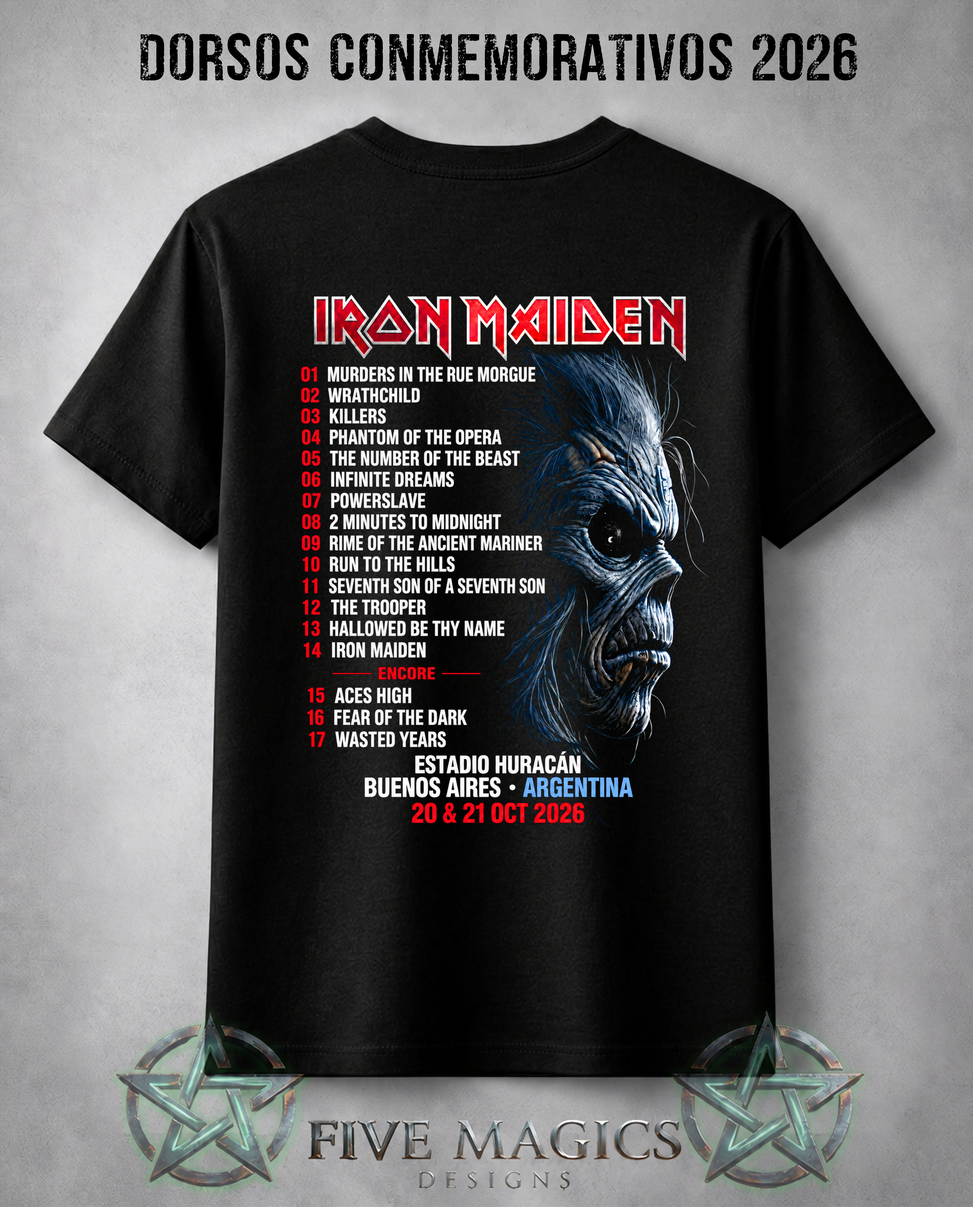
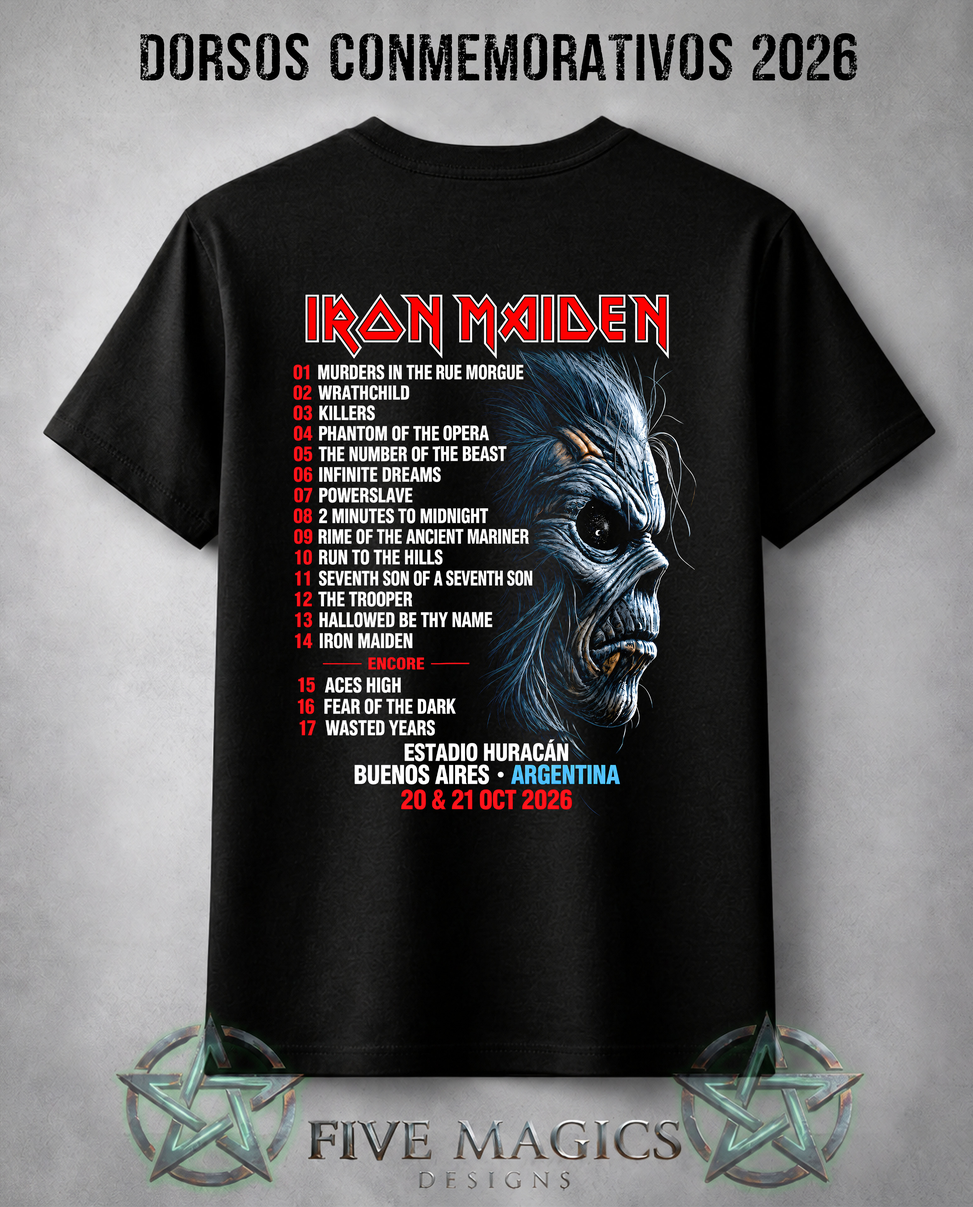
Add Iron Maiden commemorative set list backs

Changed region(s): [[0.2801, 0.2177, 0.7158, 0.6842]]

diff --git a/iron-maiden/index.html b/iron-maiden/index.html
@@ -155,7 +155,7 @@
             <div class="band-featured-collection-head">
                 <p>DORSOS CONMEMORATIVOS · ARGENTINA 2026</p>
                 <h2 id="bandCommemorativeBacksTitle">SET LIST · DOS NOCHES EN HURACÁN</h2>
-                <span>Cinco dorsos para recordar el repertorio de Buenos Aires. Elegí cualquiera con tu frente favorito de Iron Maiden.</span>
+                <span>Ocho dorsos para recordar el repertorio de Buenos Aires. Elegí cualquiera con tu frente favorito de Iron Maiden.</span>
             </div>
             <div class="band-featured-collection-grid">
                 <button type="button" class="band-featured-collection-card" onclick="openImageModal('/images/iron_maiden/dorsos_conmemorativos_set_list_argentina/dorso_afiche_set_list_argentina.jpg', 'AFICHE · SET LIST')" aria-label="Ver AFICHE · SET LIST">
@@ -173,6 +173,18 @@
                 <button type="button" class="band-featured-collection-card" onclick="openImageModal('/images/iron_maiden/dorsos_conmemorativos_set_list_argentina/dorso_eddie_tour_set_list_argentina.jpg', 'EDDIE TOUR · SET LIST')" aria-label="Ver EDDIE TOUR · SET LIST">
                     <img src="/images/iron_maiden/dorsos_conmemorativos_set_list_argentina/dorso_eddie_tour_set_list_argentina.jpg" alt="EDDIE TOUR · SET LIST de Iron Maiden" loading="lazy" decoding="async">
                     <strong>EDDIE TOUR · SET LIST</strong>
+                </button>
+                <button type="button" class="band-featured-collection-card" onclick="openImageModal('/images/iron_maiden/dorsos_conmemorativos_set_list_argentina/dorso_eddie_black_set_list_argentina.jpg', 'EDDIE HACHA NEGRO · SET LIST')" aria-label="Ver EDDIE HACHA NEGRO · SET LIST">
+                    <img src="/images/iron_maiden/dorsos_conmemorativos_set_list_argentina/dorso_eddie_black_set_list_argentina.jpg" alt="EDDIE HACHA NEGRO · SET LIST de Iron Maiden" loading="lazy" decoding="async">
+                    <strong>EDDIE HACHA NEGRO · SET LIST</strong>
+                </button>
+                <button type="button" class="band-featured-collection-card" onclick="openImageModal('/images/iron_maiden/dorsos_conmemorativos_set_list_argentina/dorso_eddie_huracan_destruction_set_list_argentina.jpg', 'EDDIE HURACÁN · TORMENTA · SET LIST')" aria-label="Ver EDDIE HURACÁN · TORMENTA · SET LIST">
+                    <img src="/images/iron_maiden/dorsos_conmemorativos_set_list_argentina/dorso_eddie_huracan_destruction_set_list_argentina.jpg" alt="EDDIE HURACÁN · TORMENTA · SET LIST de Iron Maiden" loading="lazy" decoding="async">
+                    <strong>EDDIE HURACÁN · TORMENTA · SET LIST</strong>
+                </button>
+                <button type="button" class="band-featured-collection-card" onclick="openImageModal('/images/iron_maiden/dorsos_conmemorativos_set_list_argentina/dorso_eddie_run_for__set_list_argentina.jpg', 'EDDIE RUN FOR YOUR LIVES · SET LIST')" aria-label="Ver EDDIE RUN FOR YOUR LIVES · SET LIST">
+                    <img src="/images/iron_maiden/dorsos_conmemorativos_set_list_argentina/dorso_eddie_run_for__set_list_argentina.jpg" alt="EDDIE RUN FOR YOUR LIVES · SET LIST de Iron Maiden" loading="lazy" decoding="async">
+                    <strong>EDDIE RUN FOR YOUR LIVES · SET LIST</strong>
                 </button>
                 <button type="button" class="band-featured-collection-card" onclick="openImageModal('/images/iron_maiden/dorsos_conmemorativos_set_list_argentina/dorso_iron_maiden_set_list_argentina.jpg.jpg', 'SET LIST · ARGENTINA 2026')" aria-label="Ver SET LIST · ARGENTINA 2026">
                     <img src="/images/iron_maiden/dorsos_conmemorativos_set_list_argentina/dorso_iron_maiden_set_list_argentina.jpg.jpg" alt="SET LIST · ARGENTINA 2026 de Iron Maiden" loading="lazy" decoding="async">

diff --git a/js/app.js b/js/app.js
@@ -3395,24 +3395,28 @@ class CartSystem {
             if (tipoPrenda === 'Remera clásica mujer') tipoPrenda = 'Remera con corte clásico mujer';
 
             const estampado = item.isDouble ? 'Frente y dorso' : 'Solo frente';
-            const usesShownComposition = cartItemUsesShownComposition(item);
             const additionalDetails = [];
-            if (item.frontName && normalizeText(item.frontName) !== normalizeText(productName)) {
-                additionalDetails.push(`Frente: ${item.frontName.replace(/^Frente\s+/i, '')}`);
-            }
-            if (item.isDouble && !usesShownComposition && !item.backCode) {
-                additionalDetails.push('Dorso a definir');
-            } else if (item.isDouble && !usesShownComposition && item.backName) {
-                additionalDetails.push(`Dorso: ${item.backName}`);
-            }
             if (item.customizationText) {
                 additionalDetails.push(`Personalización: ${item.customizationText}`);
             }
-
-            const options = [tipoPrenda, color, `Talle ${talle}`, estampado, ...additionalDetails]
-                .filter(Boolean)
-                .join(' · ');
-            return `${idx + 1}. ${item.frontCode || item.code} — ${productName} · ${options} · $${Math.round(itemPrices[idx]).toLocaleString('es-AR')}`;
+            const frontCode = item.frontCode || item.code;
+            const frontName = String(item.frontName || productName).replace(/^Frente\s+/i, '').trim();
+            const frontLine = `* Frente: ${frontName} (${frontCode})`;
+            const backLine = !item.isDouble
+                ? ''
+                : item.backCode && item.backName
+                    ? `\n* Dorso: ${String(item.backName).replace(/^Dorso\s+/i, '').trim()} (${item.backCode})`
+                    : '\n* Dorso: a definir';
+            const extraLines = additionalDetails.length
+                ? `\n${additionalDetails.map(detail => `* ${detail}`).join('\n')}`
+                : '';
+            return `${idx + 1}) ${frontCode} — ${productName}
+* Prenda: ${tipoPrenda}
+* Talle: ${talle}
+* Color: ${color}
+* Estampa: ${estampado}
+${frontLine}${backLine}${extraLines}
+* Precio: $${Math.round(itemPrices[idx]).toLocaleString('es-AR')}`;
         }).join('\n');
 
         const total = this.cart.length;
@@ -3481,7 +3485,7 @@ class CartSystem {
 * Color: ${color}
 * Estampa: ${item.isDouble ? 'Frente y dorso' : 'Solo frente'}
 ${designLines}
-* Precio estimado: $${price}${warning}`;
+* Precio: $${price}${warning}`;
         }).join('\n\n');
     }
 

diff --git a/js/band-archives-config.js b/js/band-archives-config.js
@@ -563,7 +563,7 @@
             commemorativeBacks: {
                 kicker: 'DORSOS CONMEMORATIVOS · ARGENTINA 2026',
                 title: 'SET LIST · DOS NOCHES EN HURACÁN',
-                copy: 'Cinco dorsos para recordar el repertorio de Buenos Aires. Elegí cualquiera con tu frente favorito de Iron Maiden.',
+                copy: 'Ocho dorsos para recordar el repertorio de Buenos Aires. Elegí cualquiera con tu frente favorito de Iron Maiden.',
                 note: 'Combinables con cualquier frente de Iron Maiden en una remera frente + dorso.',
                 ctaLabel: 'ELEGÍ TU FRENTE',
                 cards: [
@@ -571,6 +571,9 @@
                     { label: 'EDDIE HACHA · SET LIST', image: '/images/iron_maiden/dorsos_conmemorativos_set_list_argentina/dorso_eddie_flayer_set_list_argentina.jpg' },
                     { label: 'EDDIE HURACÁN · SET LIST', image: '/images/iron_maiden/dorsos_conmemorativos_set_list_argentina/dorso_eddie_huracan_set_list_argentina.jpg' },
                     { label: 'EDDIE TOUR · SET LIST', image: '/images/iron_maiden/dorsos_conmemorativos_set_list_argentina/dorso_eddie_tour_set_list_argentina.jpg' },
+                    { label: 'EDDIE HACHA NEGRO · SET LIST', image: '/images/iron_maiden/dorsos_conmemorativos_set_list_argentina/dorso_eddie_black_set_list_argentina.jpg' },
+                    { label: 'EDDIE HURACÁN · TORMENTA · SET LIST', image: '/images/iron_maiden/dorsos_conmemorativos_set_list_argentina/dorso_eddie_huracan_destruction_set_list_argentina.jpg' },
+                    { label: 'EDDIE RUN FOR YOUR LIVES · SET LIST', image: '/images/iron_maiden/dorsos_conmemorativos_set_list_argentina/dorso_eddie_run_for__set_list_argentina.jpg' },
                     { label: 'SET LIST · ARGENTINA 2026', image: '/images/iron_maiden/dorsos_conmemorativos_set_list_argentina/dorso_iron_maiden_set_list_argentina.jpg.jpg' }
                 ]
             },
